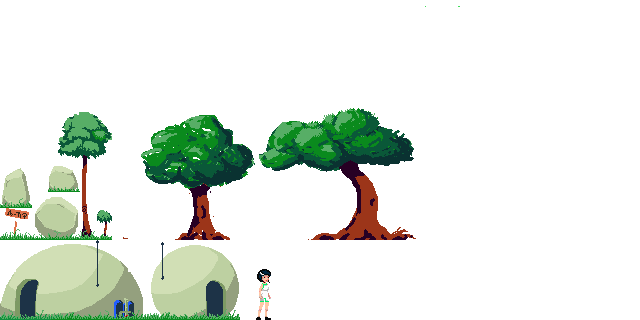
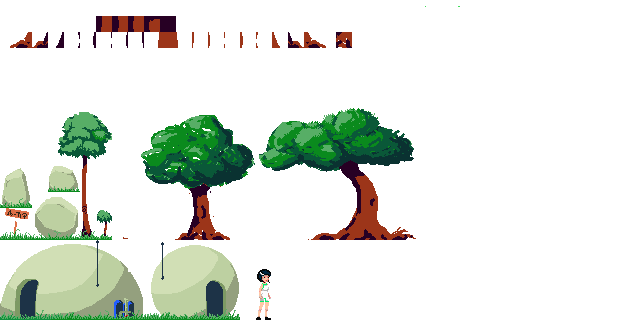
perticles

Changed region(s): [[0.0, 0.0312, 0.2812, 0.1562], [0.375, 0.0938, 0.5625, 0.1562]]

diff --git a/Src/Frauki.js b/Src/Frauki.js
@@ -69,6 +69,14 @@ Player = function (game, x, y, name) {
     this.movement.rollBoost = 0;
     this.movement.inertia = 0;
 
+    this.hitParticles = game.add.emitter(0, 0, 100);
+    this.hitParticles.makeParticles('YellowParticles');
+    this.hitParticles.gravity = -200;
+    this.hitParticles.width = this.body.width;
+    this.hitParticles.height = this.body.height;
+    this.hitParticles.maxParticleScale = 1.0;
+    this.hitParticles.minParticleScale = 0.7;
+
     this.currentAttack = {};
     this.attackRect = game.add.sprite(0, 0, null);
     game.physics.enable(this.attackRect, Phaser.Physics.ARCADE);
@@ -111,6 +119,9 @@ Player.prototype.update = function() {
     } else {
         this.states.slashing = false;
     }
+
+    this.hitParticles.x = this.body.x;
+    this.hitParticles.y = this.body.y;
 };
 
 Player.prototype.SetDirection = function(dir) {
@@ -309,6 +320,11 @@ Player.prototype.Hit = function(f, e) {
         return;
 
     this.body.velocity.y = -300;
+
+    this.hitParticles.start(false, 2000, 5, 5, 5);
+
+    this.hitParticles.minParticleSpeed.y = -200;
+    this.hitParticles.maxParticleSpeed.y = -100;
 
     if(this.states.energy > 0)
         this.states.energy--;

diff --git a/Src/Frogland.js b/Src/Frogland.js
@@ -12,6 +12,7 @@ Frogland.preload = function() {
     game.load.image('parallax2', 'Data/Locations/Frogland/Parallax2.png');
     game.load.image('fluff', 'Data/Fluff.png');
     game.load.image('HitParticles', 'Data/Hit Particles.png');
+    game.load.image('YellowParticles', 'Data/Yellow Particles.png');
 
     game.load.atlasJSONHash('Insectoid', 'Data/Enemies/Insectoid/Insectoid.png', 'Data/Enemies/Insectoid/Insectoid.json');
     game.load.atlasJSONHash('Buzzar', 'Data/Enemies/Buzzar/Buzzar.png', 'Data/Enemies/Buzzar/Buzzar.json');

diff --git a/Src/Enemy.js b/Src/Enemy.js
@@ -28,6 +28,8 @@ Enemy = function(game, x, y, name) {
     this.hitParticles.gravity = -200;
     this.hitParticles.width = this.body.width;
     this.hitParticles.height = this.body.height;
+    this.hitParticles.maxParticleScale = 1.0;
+    this.hitParticles.minParticleScale = 0.7;
 
     this.state = this.Idling;
 
@@ -48,6 +50,7 @@ Enemy.prototype.update = function() {
 
     this.hitParticles.x = this.body.x;
     this.hitParticles.y = this.body.y;
+    
     if(!!this.state)
         this.state();
 };
